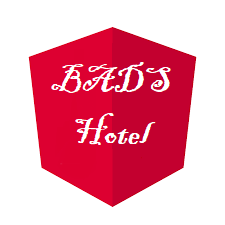
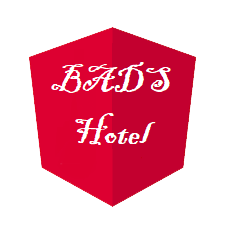
Update picture and ico

diff --git a/Project2/src/index.html b/Project2/src/index.html
@@ -4,6 +4,8 @@
   <meta charset="utf-8">
   <title>BADS Hotel</title>
   <base href="/">
+  <meta name="viewport" content="width=device-width, initial-scale=1">
+  <link rel="icon" type="image/x-icon" href="favicon.ico">
   <link href="https://stackpath.bootstrapcdn.com/bootstrap/4.3.1/css/bootstrap.min.css" rel="stylesheet" integrity="sha384-ggOyR0iXCbMQv3Xipma34MD+dH/1fQ784/j6cY/iJTQUOhcWr7x9JvoRxT2MZw1T" crossorigin="anonymous">
 </head>
 <body>

diff --git a/src/test/java/behaviortests/Project2StepImplementation.java b/src/test/java/behaviortests/Project2StepImplementation.java
@@ -45,120 +45,77 @@ public class Project2StepImplementation {
 
 	@Then("^: I am logged on$")
 	public void i_am_logged_on() throws Throwable {
-	    assertEquals(project2Main.getResponse(), "You have logged on");
+	    assertEquals(project2Main.getResponse().getText(), "Show Reservations for Goths");
 	}
 
-	@Then("^: I am not logged on$")
-	public void i_am_not_logged_on() throws Throwable {
-		assertEquals(project2Main.getResponse(), "Unsuccessful Logon Attempt");
-	}
-
-	@When("^: I click on Reserve a Room$")
-	public void i_click_on_Reserve_a_Room() throws Throwable {
-	   
-	}
-
-	@Then("^: I see a list of rooms available$")
-	public void i_see_a_list_of_rooms_available() throws Throwable {
-	    // Write code here that turns the phrase above into concrete actions
-
-	}
-
-	@Given("^: I have selected Register$")
-	public void i_have_selected_Register() throws Throwable {
-	    project2Main.getRegisterButton();
-	}
-
-	@When("^: I enter a duplicate <\"([^\"]*)\">$")
-	public void i_enter_a_duplicate(String arg1) throws Throwable {
-	    project2Main.getUsernameField().sendKeys(arg1);
-
-	}
-
-	@Then("^: I receive a duplicate usernme error$")
-	public void i_receive_a_duplicate_usernme_error() throws Throwable {
-		assertEquals(project2Main.getResponse(), "Failed to Register");
 	
-	}
-
-	@Given("^: I have searched for a room\\.$")
-	public void i_have_searched_for_a_room() throws Throwable {
-	    WebElement arrivalDate = driver.findElement(By.id("arrivalDate"));
-	    arrivalDate.click();
-	    SelectDayFromMultiDateCalendar("5");
-	    WebElement departureDate = driver.findElement(By.id("depatureDate"));
-	    departureDate.click();
-	    SelectDayFromMultiDateCalendar("8");
-	    project2Main.getSeeAvailableRooms();
-	    
-	}
-
-	@Given("^: A room is available$")
-	public void a_room_is_available() throws Throwable {
-	    // Write code here that turns the phrase above into concrete actions
-	
-	}
-
-	@When("^: I select a room to reserve$")
-	public void i_select_a_room_to_reserve() throws Throwable {
-	    // Write code here that turns the phrase above into concrete actions
-	}
-
-	@Then("^: It is reserved$")
-	public void it_is_reserved() throws Throwable {
-	   // Write code here that turns the phrase above into concrete actions
-	
-	}
-
-	@When("^: I enter \"([^\"]*)\", <\"([^\"]*)\">, <\"([^\"]*)\", \"([^\"]*)\", \"([^\"]*)\">, <\"([^\"]*)\">, \"([^\"]*)\"$")
-	public void i_enter(String arg1, String arg2, String arg3, String arg4, String arg5, String arg6, String arg7) throws Throwable {
-	    project2Main.getFirstNameField().sendKeys(arg1);
-	    project2Main.getLastNameField().sendKeys(arg2);
-	    project2Main.getEmailField().sendKeys(arg3);
-	    project2Main.getUsernameField().sendKeys(arg4);
-	    project2Main.getPasswordField().sendKeys(arg5);
-	    project2Main.getAddressField().sendKeys(arg6);
-	    project2Main.getPhoneField().sendKeys(arg7);
-	    project2Main.getConfirmRegister().click();
-	}
-
-	@Then("^: I successfully register$")
-	public void i_successfully_register() throws Throwable {
-	    assertEquals(project2Main.getResponse(), "You have registered");
-	
-	}
-
-	@Given("^: I am on the Reservation Confirmation Page$")
-	public void i_am_on_the_Reservation_Confirmation_Page() throws Throwable {
-	    // Write code here that turns the phrase above into concrete actions
-	}
-
-	@When("^: I enter my <\"([^\"]*)\">, <\"([^\"]*)\">, <\"([^\"]*)\">$")
-	public void i_enter_my(String arg1, String arg2, String arg3) throws Throwable {
-	    // Write code here that turns the phrase above into concrete actions
-	
-	}
-
-	@Then("^: I reserve a room$")
-	public void i_reserve_a_room() throws Throwable {
-	    // Write code here that turns the phrase above into concrete actions
+	 @Then("^: I am not logged on$") public void i_am_not_logged_on() throws
+	 Throwable { assertEquals(project2Main.getNoResponse().getText(),"Login"); }
 	 
-	}
-	
-	
-	//code from www.techbeamers.com/handle-date-time-picker-control-using-webdriver
-	public void SelectDayFromMultiDateCalendar(String day)
-			throws InterruptedException {
+	 
+	 @Given("^: I have selected Register$")
+	 public void i_have_selected_Register() throws Throwable {
+			project2Main.getRegisterButton().click();
+	     throw new PendingException();
+	 }
 
-		// We are using a special XPath style to select the day of current
-		// month.
-		// It will ignore the previous or next month day and pick the correct
-		// one.
-		By calendarXpath = By
-				.xpath("//td[not(contains(@class,'ui-datepicker-other-month'))]/a[text()='"
-						+ day + "']");
-		driver.findElement(calendarXpath).click();
-	}
+	 @When("^: I enter \"([^\"]*)\", <\"([^\"]*)\">, <\"([^\"]*)\", \"([^\"]*)\", \"([^\"]*)\">, <\"([^\"]*)\">, \"([^\"]*)\"$")
+	 public void i_enter(String arg1, String arg2, String arg3, String arg4, String arg5, String arg6, String arg7) throws Throwable {
+		 	project2Main.getFirstNameField().sendKeys("AMAM");
+		    project2Main.getLastNameField().sendKeys("AMAM");
+//		    project2Main.getEmailField().sendKeys(arg3);
+//		    project2Main.getUsernameField().sendKeys(arg4);
+//		    project2Main.getPasswordField().sendKeys(arg5);
+//		    project2Main.getAddressField().sendKeys(arg6);
+//		    project2Main.getPhoneField().sendKeys(arg7);
+//		    project2Main.getConfirmRegister().click();
+	     throw new PendingException();
+	 }
 
+	 @Then("^: I successfully register$")
+	 public void i_successfully_register() throws Throwable {
+//		    assertEquals(project2Main.getRegisterResponse().getText(), "You have registered");
+	     throw new PendingException();
+	 }
+
+	 @When("^: I click on Reserve a Room$")
+	 public void i_click_on_Reserve_a_Room() throws Throwable {
+	     // Write code here that turns the phrase above into concrete actions
+	     throw new PendingException();
+	 }
+
+	 @Then("^: I see a list of rooms available$")
+	 public void i_see_a_list_of_rooms_available() throws Throwable {
+	     // Write code here that turns the phrase above into concrete actions
+	     throw new PendingException();
+	 }
+
+	 @Given("^: I have searched for a room\\.$")
+	 public void i_have_searched_for_a_room() throws Throwable {
+	     // Write code here that turns the phrase above into concrete actions
+	     throw new PendingException();
+	 }
+
+	 @Given("^: A room is available$")
+	 public void a_room_is_available() throws Throwable {
+	     // Write code here that turns the phrase above into concrete actions
+	     throw new PendingException();
+	 }
+
+	 @When("^: I select a room to reserve$")
+	 public void i_select_a_room_to_reserve() throws Throwable {
+	     // Write code here that turns the phrase above into concrete actions
+	     throw new PendingException();
+	 }
+
+	 @Then("^: It is reserved$")
+	 public void it_is_reserved() throws Throwable {
+	     // Write code here that turns the phrase above into concrete actions
+	     throw new PendingException();
+	 }
+
+
+	 
+	
 
 }

diff --git a/src/test/java/pages/Project2Main.java b/src/test/java/pages/Project2Main.java
@@ -44,11 +44,21 @@ public class Project2Main {
 		driver.manage().timeouts().implicitlyWait(2, TimeUnit.SECONDS);
 		return driver.findElement(By.id("username"));
 	}
+	public WebElement getUsernameFieldR()
+	{
+		driver.manage().timeouts().implicitlyWait(2, TimeUnit.SECONDS);
+		return driver.findElement(By.id("rusername"));
+	}
 	
 	public WebElement getPasswordField()
 	{
 		driver.manage().timeouts().implicitlyWait(2, TimeUnit.SECONDS);
 		return driver.findElement(By.id("password"));
+	}
+	public WebElement getPasswordFieldR()
+	{
+		driver.manage().timeouts().implicitlyWait(2, TimeUnit.SECONDS);
+		return driver.findElement(By.id("rpassword"));
 	}
 	
 	public WebElement getConfirmLogin()
@@ -95,6 +105,14 @@ public class Project2Main {
 	
 	public WebElement getResponse()
 	{
+		driver.manage().timeouts().implicitlyWait(2, TimeUnit.SECONDS);
+		return driver.findElement(By.id("showMyReservations"));
+	}
+	public WebElement getNoResponse() {
+		driver.manage().timeouts().implicitlyWait(2, TimeUnit.SECONDS);
+		return driver.findElement(By.id("modalLogin"));
+	}
+	public WebElement getRegisterResponse() {
 		driver.manage().timeouts().implicitlyWait(2, TimeUnit.SECONDS);
 		return driver.findElement(By.id("response"));
 	}
